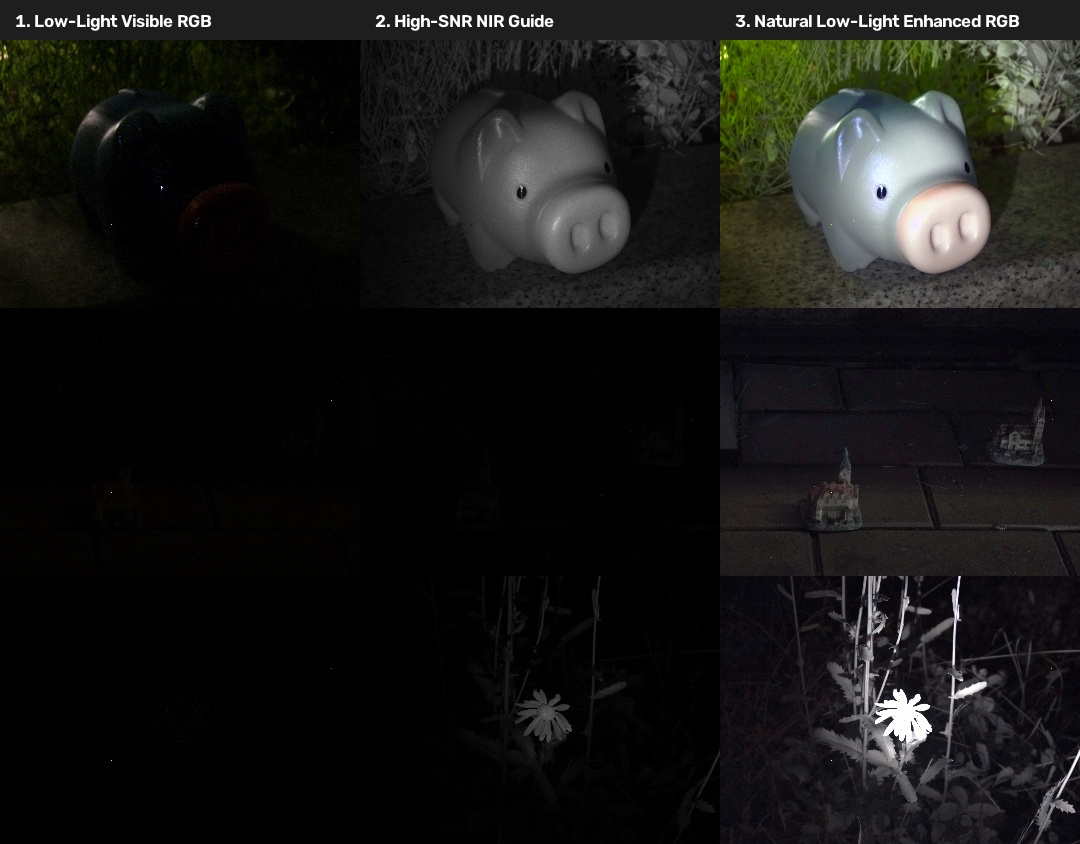
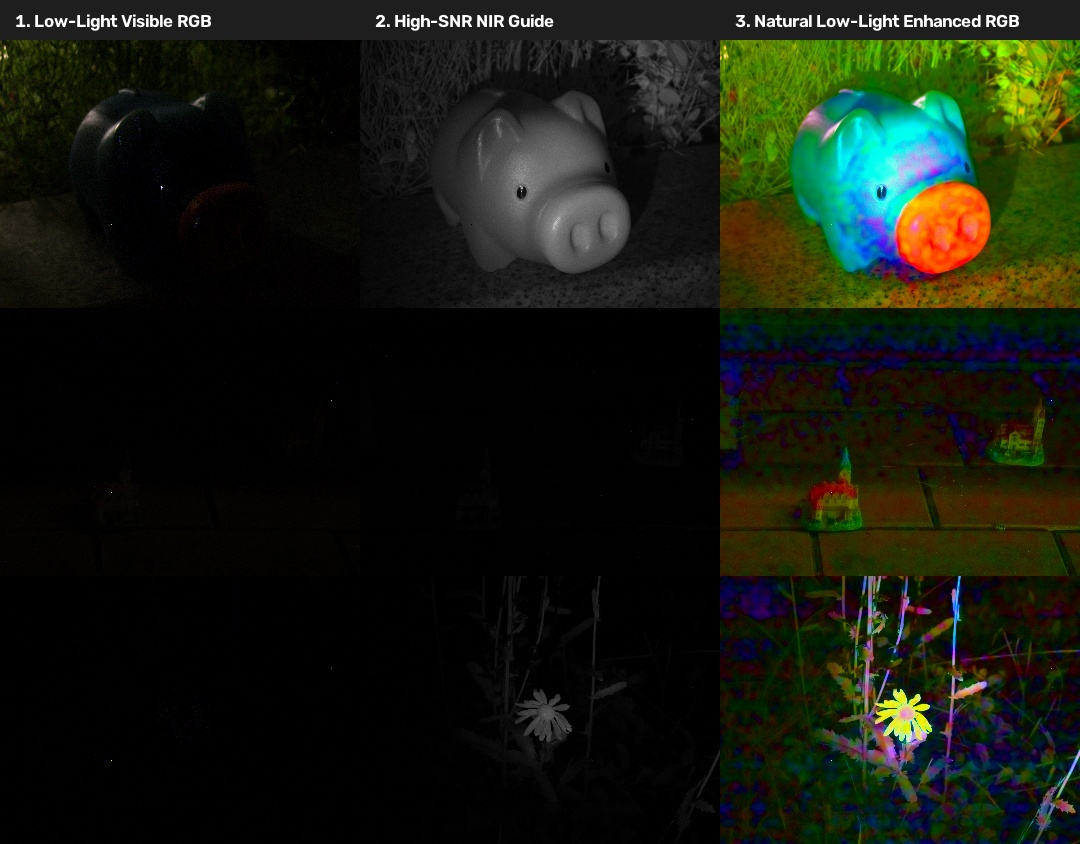
Implement Soft-Knee Luma Compression to prevent highlight saturation and boost color saturation

Changed region(s): [[0.6417, 0.0308, 1.0, 1.0]]

diff --git a/python/cmyg_separation/lowlight_enhancement.py b/python/cmyg_separation/lowlight_enhancement.py
@@ -53,16 +53,16 @@ def lowlight_region_colorcorrection(img_rgb, blk_size=4, top_ratio=0.1, threshol
     return np.clip(img_out[:h, :w, :], 0.0, 1.0)
 
 
-def enhance_lowlight_image(rgb_img, nir_img, mixed_rgb=None, alpha=0.5, sat_boost=2.6, target_brightness=0.28, max_gain=4.0, use_top10_colorcorrection=True):
+def enhance_lowlight_image(rgb_img, nir_img, mixed_rgb=None, alpha=0.5, sat_boost=2.8, target_brightness=0.28, max_gain=4.0, use_top10_colorcorrection=True):
     """
-    High-SNR Floating-Point Chromaticity Preservation & Guided Low-Light Image Enhancement.
+    High-SNR Soft-Knee Non-Saturating Luma Compression & Guided Low-Light Image Enhancement.
     
     Args:
         rgb_img: Separated visible RGB image (float64 [0, 1])
         nir_img: Separated NIR image (float64 [0, 1])
         mixed_rgb: CMYG raw mixed reference image (float64 [0, 1])
         alpha: Luminance fusion weight
-        sat_boost: Chrominance saturation boost multiplier (default: 2.6 for ultra-vivid colors)
+        sat_boost: Chrominance saturation boost multiplier (default: 2.8 for ultra-rich vivid colors)
         target_brightness: Target mean luminance level (default: 0.28)
         max_gain: Maximum luminance boost gain cap (default: 4.0)
         use_top10_colorcorrection: Apply block-wise top 10% chromaticity extraction
@@ -97,14 +97,21 @@ def enhance_lowlight_image(rgb_img, nir_img, mixed_rgb=None, alpha=0.5, sat_boos
     c_yuv = cv2.cvtColor((sep_rgb_awb * 255.0).astype(np.uint8), cv2.COLOR_RGB2YCrCb).astype(np.float64) / 255.0
     m_yuv = cv2.cvtColor((mixed_rgb_awb * 255.0).astype(np.uint8), cv2.COLOR_RGB2YCrCb).astype(np.float64) / 255.0
     
-    # 5. Controlled Natural Luminance Adaptive Scaling
-    mean_my = np.mean(m_yuv[:, :, 0])
+    # 5. Soft-Knee Non-Saturating Luma Compression (Reinhard Tone-Mapping)
+    # Prevents Luma from saturating/clipping at highlight peaks (white blow-outs)
+    raw_y = m_yuv[:, :, 0]
+    mean_my = np.mean(raw_y)
     if mean_my > 0 and mean_my < target_brightness:
         grayfactor = min(target_brightness / max(mean_my, 1e-4), max_gain)
-        mixed_y = np.power(np.clip(m_yuv[:, :, 0] * grayfactor, 0.0, 1.0), 0.80)
+        y_boosted = raw_y * grayfactor
+        # Soft-knee compression: Y_compressed = Y / (1 + Y / 2.5) smoothly compresses highlights
+        mixed_y = y_boosted / (1.0 + y_boosted / 2.5)
+        mixed_y = np.power(mixed_y, 0.85)
     else:
-        mixed_y = m_yuv[:, :, 0]
+        mixed_y = raw_y
         
+    mixed_y = np.clip(mixed_y, 0.0, 0.95)  # Cap maximum luma to 0.95 to strictly prevent saturation
+    
     # 6. Guided Filtering on Chrominance Channels (Cr, Cb) using mixed_rgb R channel
     guide = mixed_rgb[:, :, 0]
     cr_clean = guided_filter(guide, c_yuv[:, :, 1], radius=20, eps=1e-2)
@@ -116,15 +123,15 @@ def enhance_lowlight_image(rgb_img, nir_img, mixed_rgb=None, alpha=0.5, sat_boos
     
     # 8. Reconstruct YCrCb -> RGB
     comb_yuv = np.zeros_like(m_yuv)
-    comb_yuv[:, :, 0] = np.clip(mixed_y, 0.0, 1.0)
+    comb_yuv[:, :, 0] = mixed_y
     comb_yuv[:, :, 1] = cr_boosted
     comb_yuv[:, :, 2] = cb_boosted
     
     comb_rgb = cv2.cvtColor((comb_yuv * 255.0).astype(np.uint8), cv2.COLOR_YCrCb2RGB).astype(np.float64) / 255.0
     
-    # 9. Extra HSV saturation boost for rich vivid colors
+    # 9. Extra HSV saturation boost (1.6x) for rich vivid colors
     hsv = cv2.cvtColor((comb_rgb * 255.0).astype(np.uint8), cv2.COLOR_RGB2HSV).astype(np.float64) / 255.0
-    hsv[:, :, 1] = np.clip(hsv[:, :, 1] * 1.5, 0.0, 1.0)
+    hsv[:, :, 1] = np.clip(hsv[:, :, 1] * 1.6, 0.0, 1.0)
     comb_vibrant = cv2.cvtColor((hsv * 255.0).astype(np.uint8), cv2.COLOR_HSV2RGB).astype(np.float64) / 255.0
     
     # 10. Final Auto White Balance
